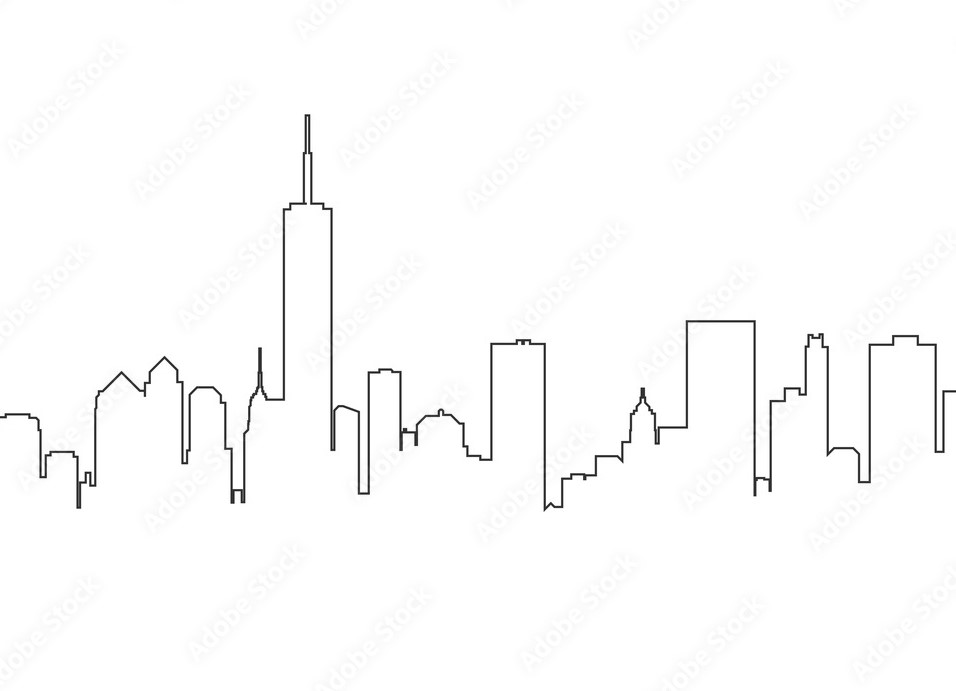
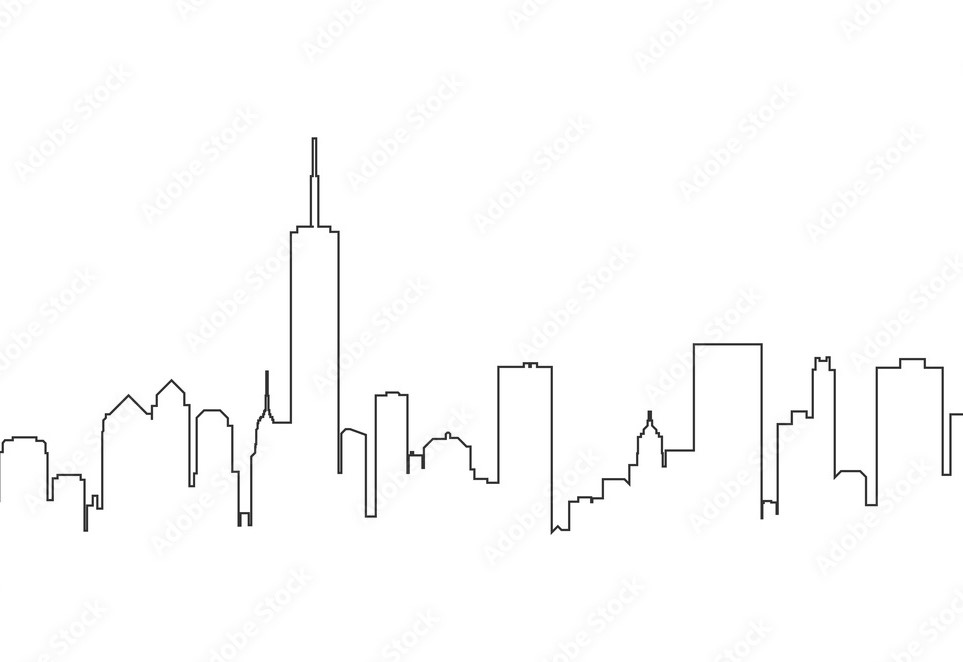
resized 3

diff --git a/stroll-landing-page.html b/stroll-landing-page.html
@@ -19,15 +19,16 @@
   <div style="
   text-align: center;
   padding-bottom: 20px;
-  /* background-image: url(https://raw.githubusercontent.com/echochs1/econo/refs/heads/main/city-outline-stock-photo.jpg); */
+  background-image: url(https://raw.githubusercontent.com/echochs1/econo/refs/heads/main/city-outline-stock-photo.jpg);
   background-position: center;
   background-size: cover;
-  min-height: 660px;
+  min-height: 770px;
   overflow: hidden;"
   class="Inner Div"
   >
     <h1 style="color: #0072BB; 
       padding-top: 30px; 
+      /* padding-bottom: 30px; */
       font-family: sans-serif; 
       font-size: 40px;">
       Welcome To Econo Agency
@@ -40,7 +41,7 @@
       border: none;
       border-radius: 30px;
       padding: 15px;
-      top: 430px;
+      top: 460px;
       position: relative;"
     >
       Receive Free Consultation
